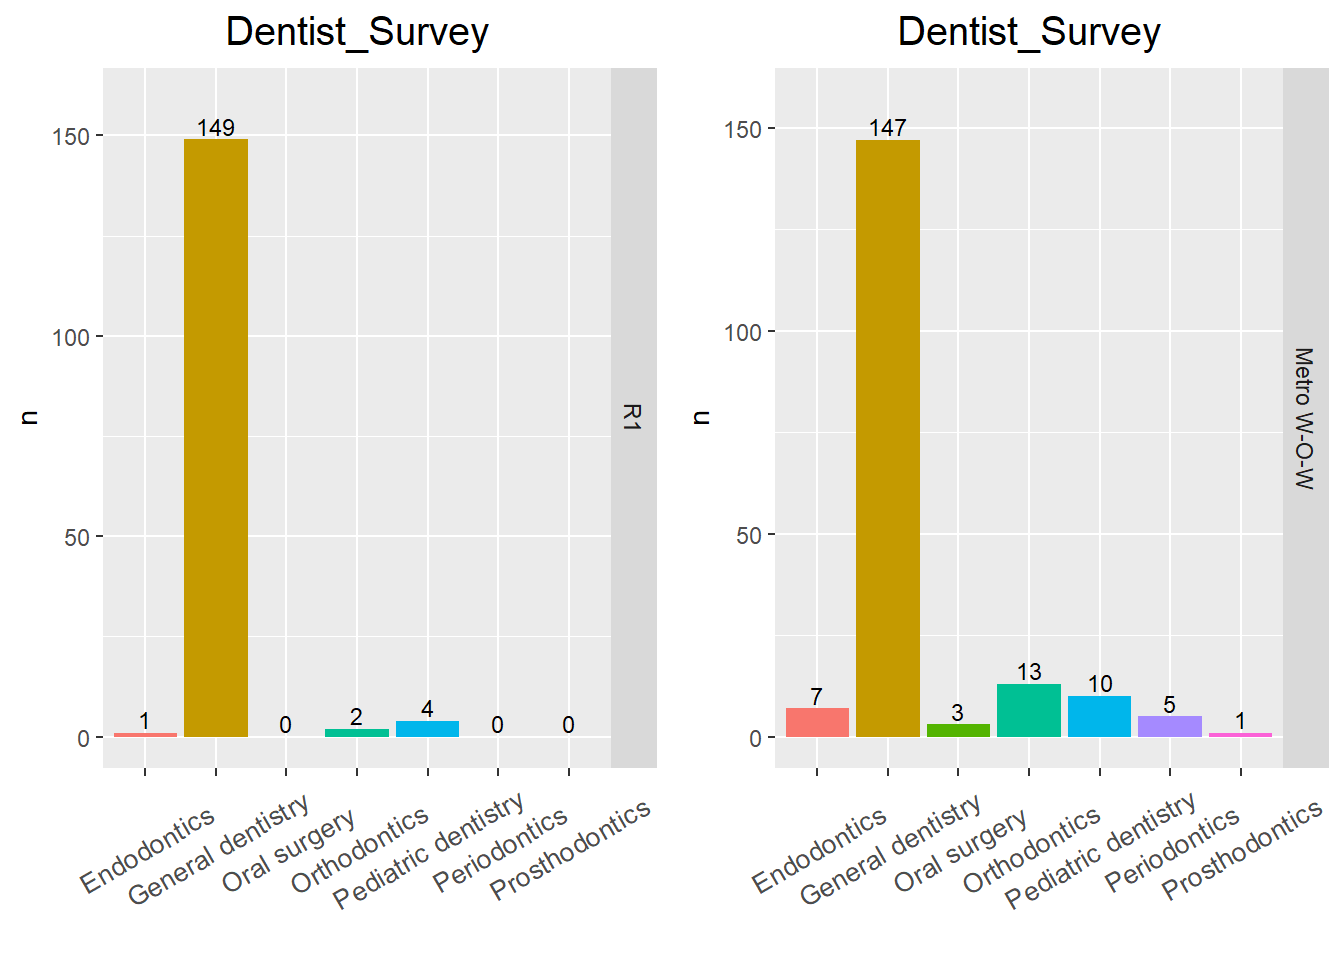
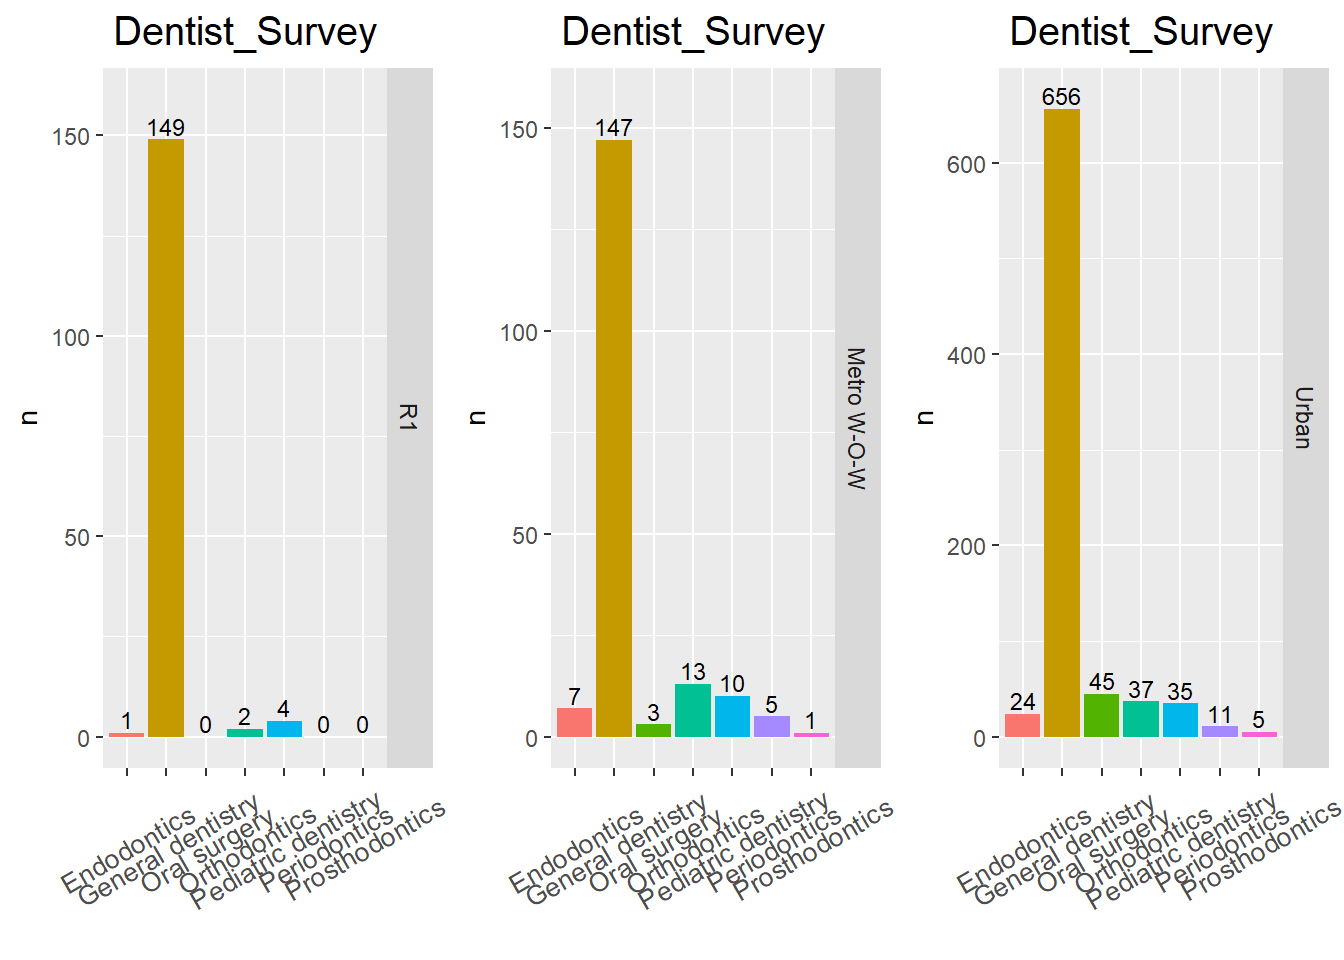
8/15/2024

diff --git a/docs/2024_0701_survey.html b/docs/2024_0701_survey.html
@@ -574,15 +574,15 @@ analysis/Rfunctions.R
 <div class="panel panel-default">
 <div class="panel-heading">
 <p class="panel-title">
-<a data-toggle="collapse" data-parent="#workflowr-checks" href="#strongRepositoryversionstrongahrefhttpsgithubcomhan16Collaborationstree6f9829aa17a61172a647e0faf5641a6bbc4419b2targetblank6f9829aa">
+<a data-toggle="collapse" data-parent="#workflowr-checks" href="#strongRepositoryversionstrongahrefhttpsgithubcomhan16Collaborationstree3354db3dee744096ab801cca9f5f6b4857d6b80dtargetblank3354db3a">
 <span class="glyphicon glyphicon-ok text-success"
 aria-hidden="true"></span> <strong>Repository version:</strong>
-<a href="https://github.com/han16/Collaborations/tree/6f9829aa17a61172a647e0faf5641a6bbc4419b2" target="_blank">6f9829a</a>
+<a href="https://github.com/han16/Collaborations/tree/3354db3dee744096ab801cca9f5f6b4857d6b80d" target="_blank">3354db3</a>
 </a>
 </p>
 </div>
 <div
[2 lines of base64/hex data omitted]
 class="panel-collapse collapse">
 <div class="panel-body">
 <p>
@@ -592,7 +592,7 @@ reproducibility.
 </p>
 <p>
 The results in this page were generated with repository version
-<a href="https://github.com/han16/Collaborations/tree/6f9829aa17a61172a647e0faf5641a6bbc4419b2" target="_blank">6f9829a</a>.
+<a href="https://github.com/han16/Collaborations/tree/3354db3dee744096ab801cca9f5f6b4857d6b80d" target="_blank">3354db3</a>.
 See the <em>Past versions</em> tab to see a history of the changes made
 to the R Markdown and HTML files.
 </p>
@@ -658,6 +658,40 @@ Message
 </tr>
 </thead>
 <tbody>
+<tr>
+<td>
+Rmd
+</td>
+<td>
+<a href="https://github.com/han16/Collaborations/blob/3354db3dee744096ab801cca9f5f6b4857d6b80d/analysis/2024_0701_survey.Rmd" target="_blank">3354db3</a>
+</td>
+<td>
+han
+</td>
+<td>
+2024-08-15
+</td>
+<td>
+8/15/2024
+</td>
+</tr>
+<tr>
+<td>
+html
+</td>
+<td>
+<a href="https://rawcdn.githack.com/han16/Collaborations/3354db3dee744096ab801cca9f5f6b4857d6b80d/docs/2024_0701_survey.html" target="_blank">3354db3</a>
+</td>
+<td>
+han
+</td>
+<td>
+2024-08-15
+</td>
+<td>
+8/15/2024
+</td>
+</tr>
 <tr>
 <td>
 Rmd
@@ -2103,7 +2137,7 @@ pie_chart[[i]]=ggplot(data=pie_data)+
    
 }
   
-ggarrange(figures[[1]], figures[[2]], figures[[3]], figures[[4]], figures[[5]], figures[[6]], ncol=2)</code></pre>
+ggarrange(figures[[1]], figures[[2]], figures[[3]], figures[[4]], figures[[5]], figures[[6]], ncol=3)</code></pre>
 <pre><code>$`1`</code></pre>
 <p><img src="figure/2024_0701_survey.Rmd/unnamed-chunk-15-1.png" width="672" style="display: block; margin: auto;" /></p>
 <p>
@@ -2243,68 +2277,6 @@ han
 </td>
 <td>
 2024-08-12
-</td>
-</tr>
-</tbody>
-</table>
-</div>
-</div>
-<pre><code>
-$`3`</code></pre>
-<p><img src="figure/2024_0701_survey.Rmd/unnamed-chunk-15-3.png" width="672" style="display: block; margin: auto;" /></p>
-<p>
-<button type="button" class="btn btn-default btn-xs btn-workflowr btn-workflowr-fig" data-toggle="collapse" data-target="#fig-unnamed-chunk-15-3">
-Past versions of unnamed-chunk-15-3.png
-</button>
-</p>
-<div id="fig-unnamed-chunk-15-3" class="collapse">
-<div class="table-responsive">
-<table class="table table-condensed table-hover">
-<thead>
-<tr>
-<th>
-Version
-</th>
-<th>
-Author
-</th>
-<th>
-Date
-</th>
-</tr>
-</thead>
-<tbody>
-<tr>
-<td>
-<a href="https://github.com/han16/Collaborations/blob/6f9829aa17a61172a647e0faf5641a6bbc4419b2/docs/figure/2024_0701_survey.Rmd/unnamed-chunk-15-3.png" target="_blank">6f9829a</a>
-</td>
-<td>
-han
-</td>
-<td>
-2024-08-15
-</td>
-</tr>
-<tr>
-<td>
-<a href="https://github.com/han16/Collaborations/blob/fe7fa759bdd564dbea84799c8e8d0cada8550ab8/docs/figure/2024_0701_survey.Rmd/unnamed-chunk-15-3.png" target="_blank">fe7fa75</a>
-</td>
-<td>
-han
-</td>
-<td>
-2024-08-14
-</td>
-</tr>
-<tr>
-<td>
-<a href="https://github.com/han16/Collaborations/blob/e33c9bf2885ee935186ad42575dc22b2b11a556a/docs/figure/2024_0701_survey.Rmd/unnamed-chunk-15-3.png" target="_blank">e33c9bf</a>
-</td>
-<td>
-han
-</td>
-<td>
-2024-08-14
 </td>
 </tr>
 </tbody>
